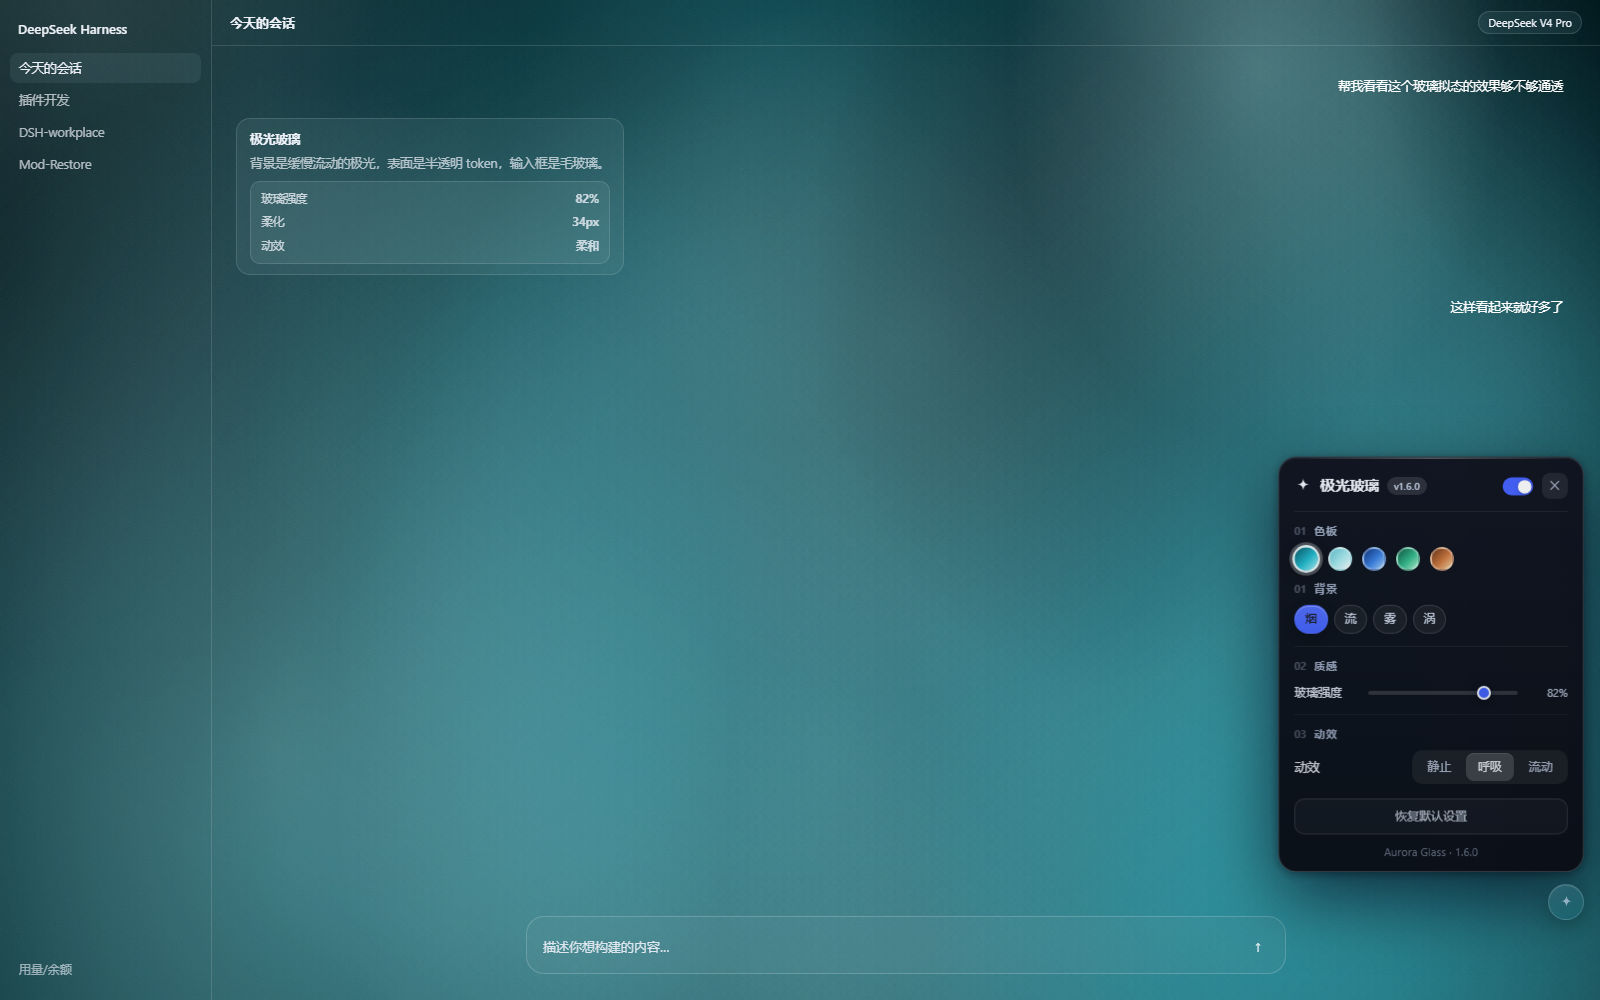
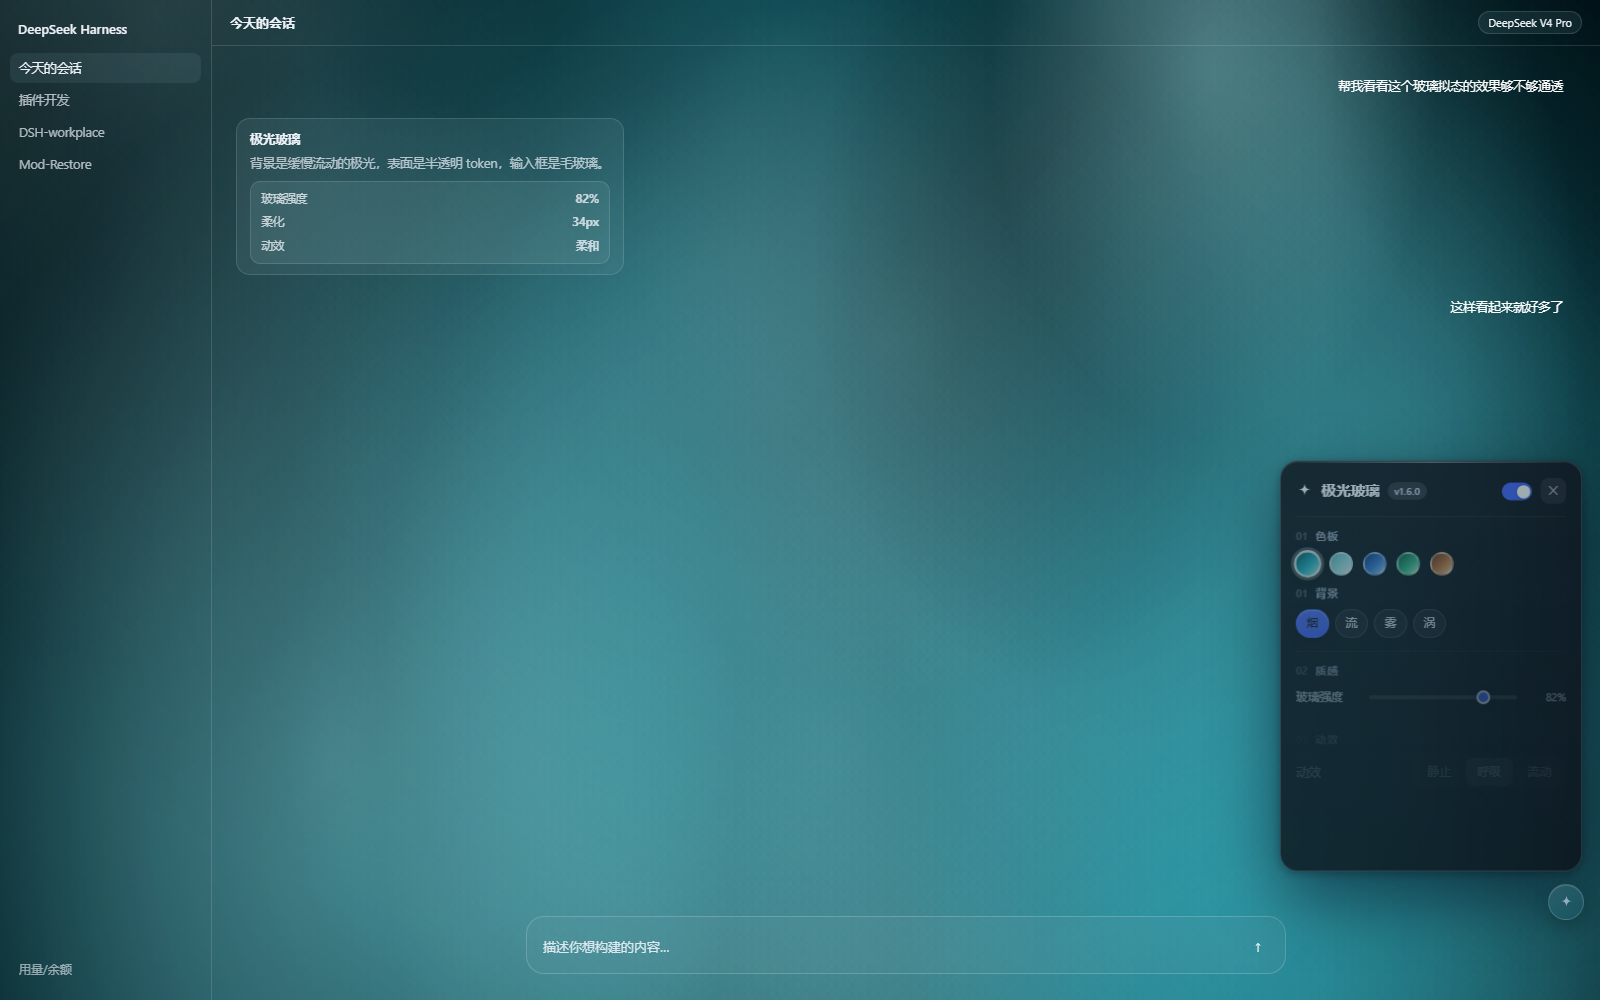
fix: v3.4.0 - remove compositing hazards on the backdrop, overshoot canvas by 1px, pause redraw while dragging

diff --git a/client.js b/client.js
@@ -338,10 +338,7 @@ body{
 /* ---- aurora -------------------------------------------------------- */
 #${BG_ID}{
   position:fixed; inset:0; z-index:-1; pointer-events:none; overflow:hidden;
-  contain:paint;
-  animation:ag-breathe 22s ease-in-out infinite alternate;
 }
-@keyframes ag-breathe{ from{ opacity:.94 } to{ opacity:1 } }
 #${BG_ID} i{
   position:absolute; display:block; border-radius:50%;
   filter:blur(calc(var(--ag-blur) * 1.8px)) saturate(var(--ag-sat)) hue-rotate(var(--ag-hue));
@@ -393,16 +390,13 @@ body[data-ds-dark-theme] #${BG_ID} .ag-scrim{
     rgb(4 6 12 / calc(.06 + .04 * var(--ag-g)));
 }
 html.ag-typing #${BG_ID} .ag-scrim{ opacity:.55 }
-#${BG_ID} .ag-grain{
-  position:absolute; inset:0; display:block; pointer-events:none;
-  background-image:${NOISE}; background-size:160px 160px;
-  opacity:calc(.42 * var(--ag-grain)); mix-blend-mode:soft-light;
-}
 
 /* ---- silk backdrop -------------------------------------------------- */
 #${SILK_ID}{
-  position:absolute; inset:0; display:none; width:100%; height:100%;
-  object-fit:cover; pointer-events:none;
+  /* overshoot by 1px: at fractional window sizes a 100% canvas can leave a
+     hairline of page background at the edge, which reads as a dark seam */
+  position:absolute; left:-1px; top:-1px; display:none;
+  width:calc(100% + 2px); height:calc(100% + 2px); pointer-events:none;
   image-rendering:auto;
   transform:translateZ(0);
 }
@@ -1406,6 +1400,13 @@ body:not([data-ds-dark-theme]) .ag-swatch.on{ border-color:rgba(60,48,36,.7); bo
         hidden = false;
       }
       if (hidden) return;
+      // while a slider is being dragged the style recalc owns the main thread;
+      // redrawing the backdrop on top of that is what makes the drag stutter
+      try {
+        if (document.documentElement.classList.contains('ag-tuning')) return;
+      } catch {
+        /* ignore */
+      }
       // when nobody has touched anything for a while, drop to ~10fps: the drift
       // is slow enough that it still looks continuous, and it saves a lot of GPU
       const idle = now - lastInput > 9000;
@@ -1671,8 +1672,7 @@ body:not([data-ds-dark-theme]) .ag-swatch.on{ border-color:rgba(60,48,36,.7); bo
         el('i'),
         el('i'),
         el('span', { class: 'ag-scrim' }),
-        el('span', { class: 'ag-grain' }),
-      ]);
+        ]);
       document.body.appendChild(bg);
 
       const btn = el('button', {

diff --git a/CHANGELOG.md b/CHANGELOG.md
@@ -3,6 +3,19 @@
 本文件记录 dsh-aurora-glass 的重要变更，采用简易维护格式（Keep a Changelog 风格）。
 All notable changes to dsh-aurora-glass, in a simple maintenance format (Keep a Changelog style).
 
+## [3.4.0] - 2026-10-26
+
+### Fixed
+
+- **窗口边缘的暗边**（第三次修）。前两次都没打中，这次把背景层上的三个合成层隐患一起拆掉：
+  1. `animation: ag-breathe`（透明度关键帧）——它把整个背景层变成了合成表面，边缘在每次重绘时被重新采样；
+  2. `contain: paint` —— 把那个合成表面裁成一个硬边盒子；
+  3. 噪点层的 `mix-blend-mode: soft-light` —— 全屏混合，且因为开关已删而**常驻**。
+  三个都不再存在。另外画布改为**外扩 1px**（`calc(100% + 2px)`），
+  避免非整数窗口尺寸下边缘漏出 1px 页面底色——那本身就会读成一条暗缝。
+- **滑杆残余卡顿**：拖动期间**暂停背景重绘**。样式重算已经占满主线程，
+  再叠一层 30fps 的画布绘制就是抖动来源。
+
 ## [3.3.0] - 2026-10-26
 
 ### Fixed

diff --git a/README.md b/README.md
@@ -3,7 +3,7 @@
 > **`dsh-aurora-glass`** — 为 DeepSeek Harness（DSH）打造的全局玻璃拟态 + 极光渐变主题插件。
 > A global glassmorphism + aurora theme plugin for DeepSeek Harness.
 
-![Version](https://img.shields.io/badge/version-3.3.0-8fb0ff) ![License](https://img.shields.io/badge/license-MIT-059669) ![Platform](https://img.shields.io/badge/platform-DeepSeek%20Harness-4763ff) ![Dependencies](https://img.shields.io/badge/dependencies-0-0b7bf1)
+![Version](https://img.shields.io/badge/version-3.4.0-8fb0ff) ![License](https://img.shields.io/badge/license-MIT-059669) ![Platform](https://img.shields.io/badge/platform-DeepSeek%20Harness-4763ff) ![Dependencies](https://img.shields.io/badge/dependencies-0-0b7bf1)
 
 <p align="center">
   <img src="docs/preview-light.png" alt="烟 · 浅青（浅色）" width="780">
